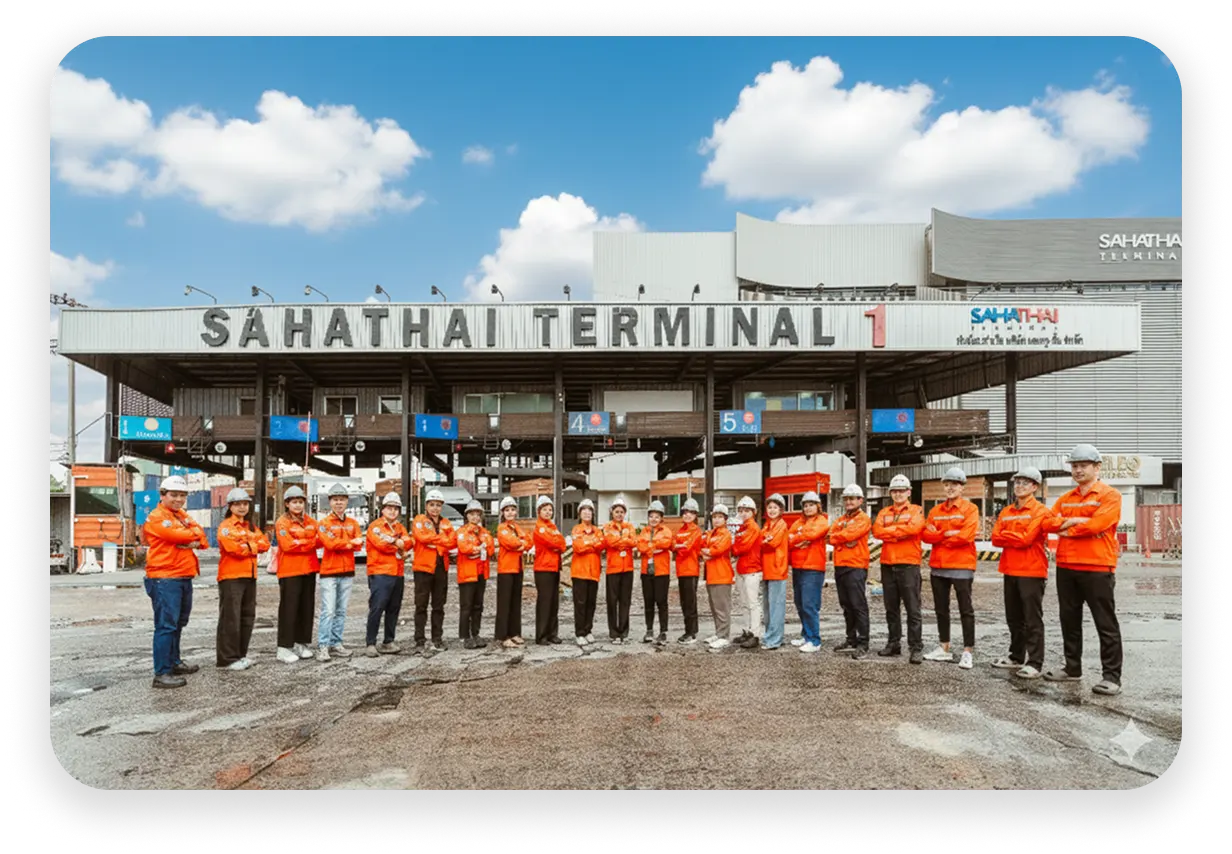
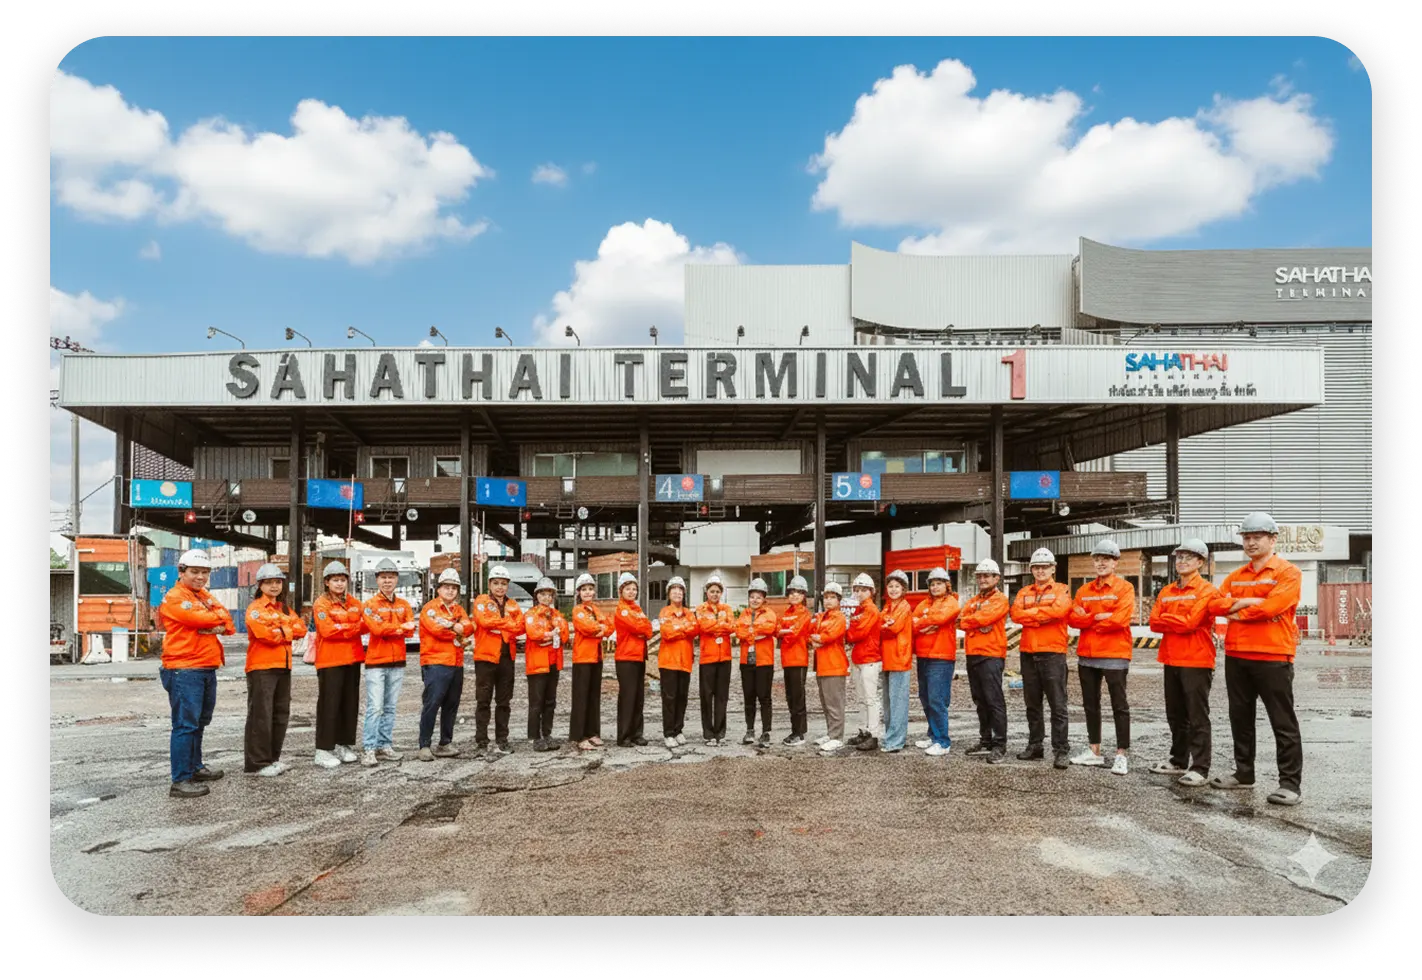
fix(Image): About us

diff --git a/src/app/[locale]/e-service/page.tsx b/src/app/[locale]/e-service/page.tsx
@@ -1,6 +1,7 @@
 import { REVALIDATE_TIME } from '@/config/environtment'
 import { EServicePage } from '@/features/investorRelations/pages/EServicePage'
 import { fetchStoryblokStory } from '@/libs/storyblok/accordionsQuery'
+import { getTranslations } from 'next-intl/server'
 
 export default async function EService({
   params,
@@ -18,4 +19,39 @@ export default async function EService({
   )
 
   return <EServicePage data={response} />
+}
+
+export async function generateMetadata({
+  params: { locale },
+}: {
+  params: {
+    locale: string
+  }
+}) {
+  const t = await getTranslations('MetaData')
+
+  return {
+    title: t('EService.Title'),
+    description: t('EService.Description'),
+    openGraph: {
+      title: t('EService.Title'),
+      description: t('EService.Description'),
+      images: [
+        {
+          url:
+            'https://sahathai-ui.vercel.app' + '/seo/meta-image-contact-us.jpg',
+          width: 800,
+          height: 600,
+          alt: 'sahathai-contact-us-meta-image',
+        },
+        {
+          url:
+            'https://sahathai-ui.vercel.app' + '/seo/meta-image-contact-us.jpg',
+          width: 1800,
+          height: 1600,
+          alt: 'sahathai-contact-us-meta-image',
+        },
+      ],
+    },
+  }
 }

diff --git a/src/components/Menu/index.tsx b/src/components/Menu/index.tsx
@@ -30,9 +30,7 @@ export function Menu() {
               <DropdownMenu
                 key={menu.title}
                 label={menu.title}
-                className={twMerge(
-                  isActive ? 'hover:bg-blue-300 bg-blue-300' : ''
-                )}
+                className={twMerge(isActive ? ' bg-white/15' : '')}
                 onClick={() => router.push(menu.pathname)}
               >
                 {menu.children.map(subMenu => {
@@ -63,7 +61,7 @@ export function Menu() {
             <li key={menu.title}>
               <Link
                 className={`headline-6 !font-[300] block px-[24px] py-[18px]   hover:bg-white/15 data-[open]:bg-white/15 whitespace-nowrap ${
-                  isActive && 'bg-blue-300'
+                  isActive && ' bg-white/15'
                 }`}
                 target={menu.isExternalLink ? '_blank' : undefined}
                 rel={menu.isExternalLink ? 'noopener noreferrer' : undefined}

diff --git a/src/features/aboutUs/components/Vision/index.tsx b/src/features/aboutUs/components/Vision/index.tsx
@@ -10,7 +10,7 @@ export function Vision() {
 
   return (
     <Animation className='mt-[90px] flex flex-col-reverse  lg:flex-row px-5 md:px-3 justify-center gap-[89px] max-w-[1065px] mx-auto'>
-      <div className='relative w-[450px] h-auto shrink-0'>
+      <div className='relative w-[220px] md:w-[550px] h-auto shrink-0'>
         <Image
           src='/about-us/new/team-3x.webp'
           alt='About us team'
